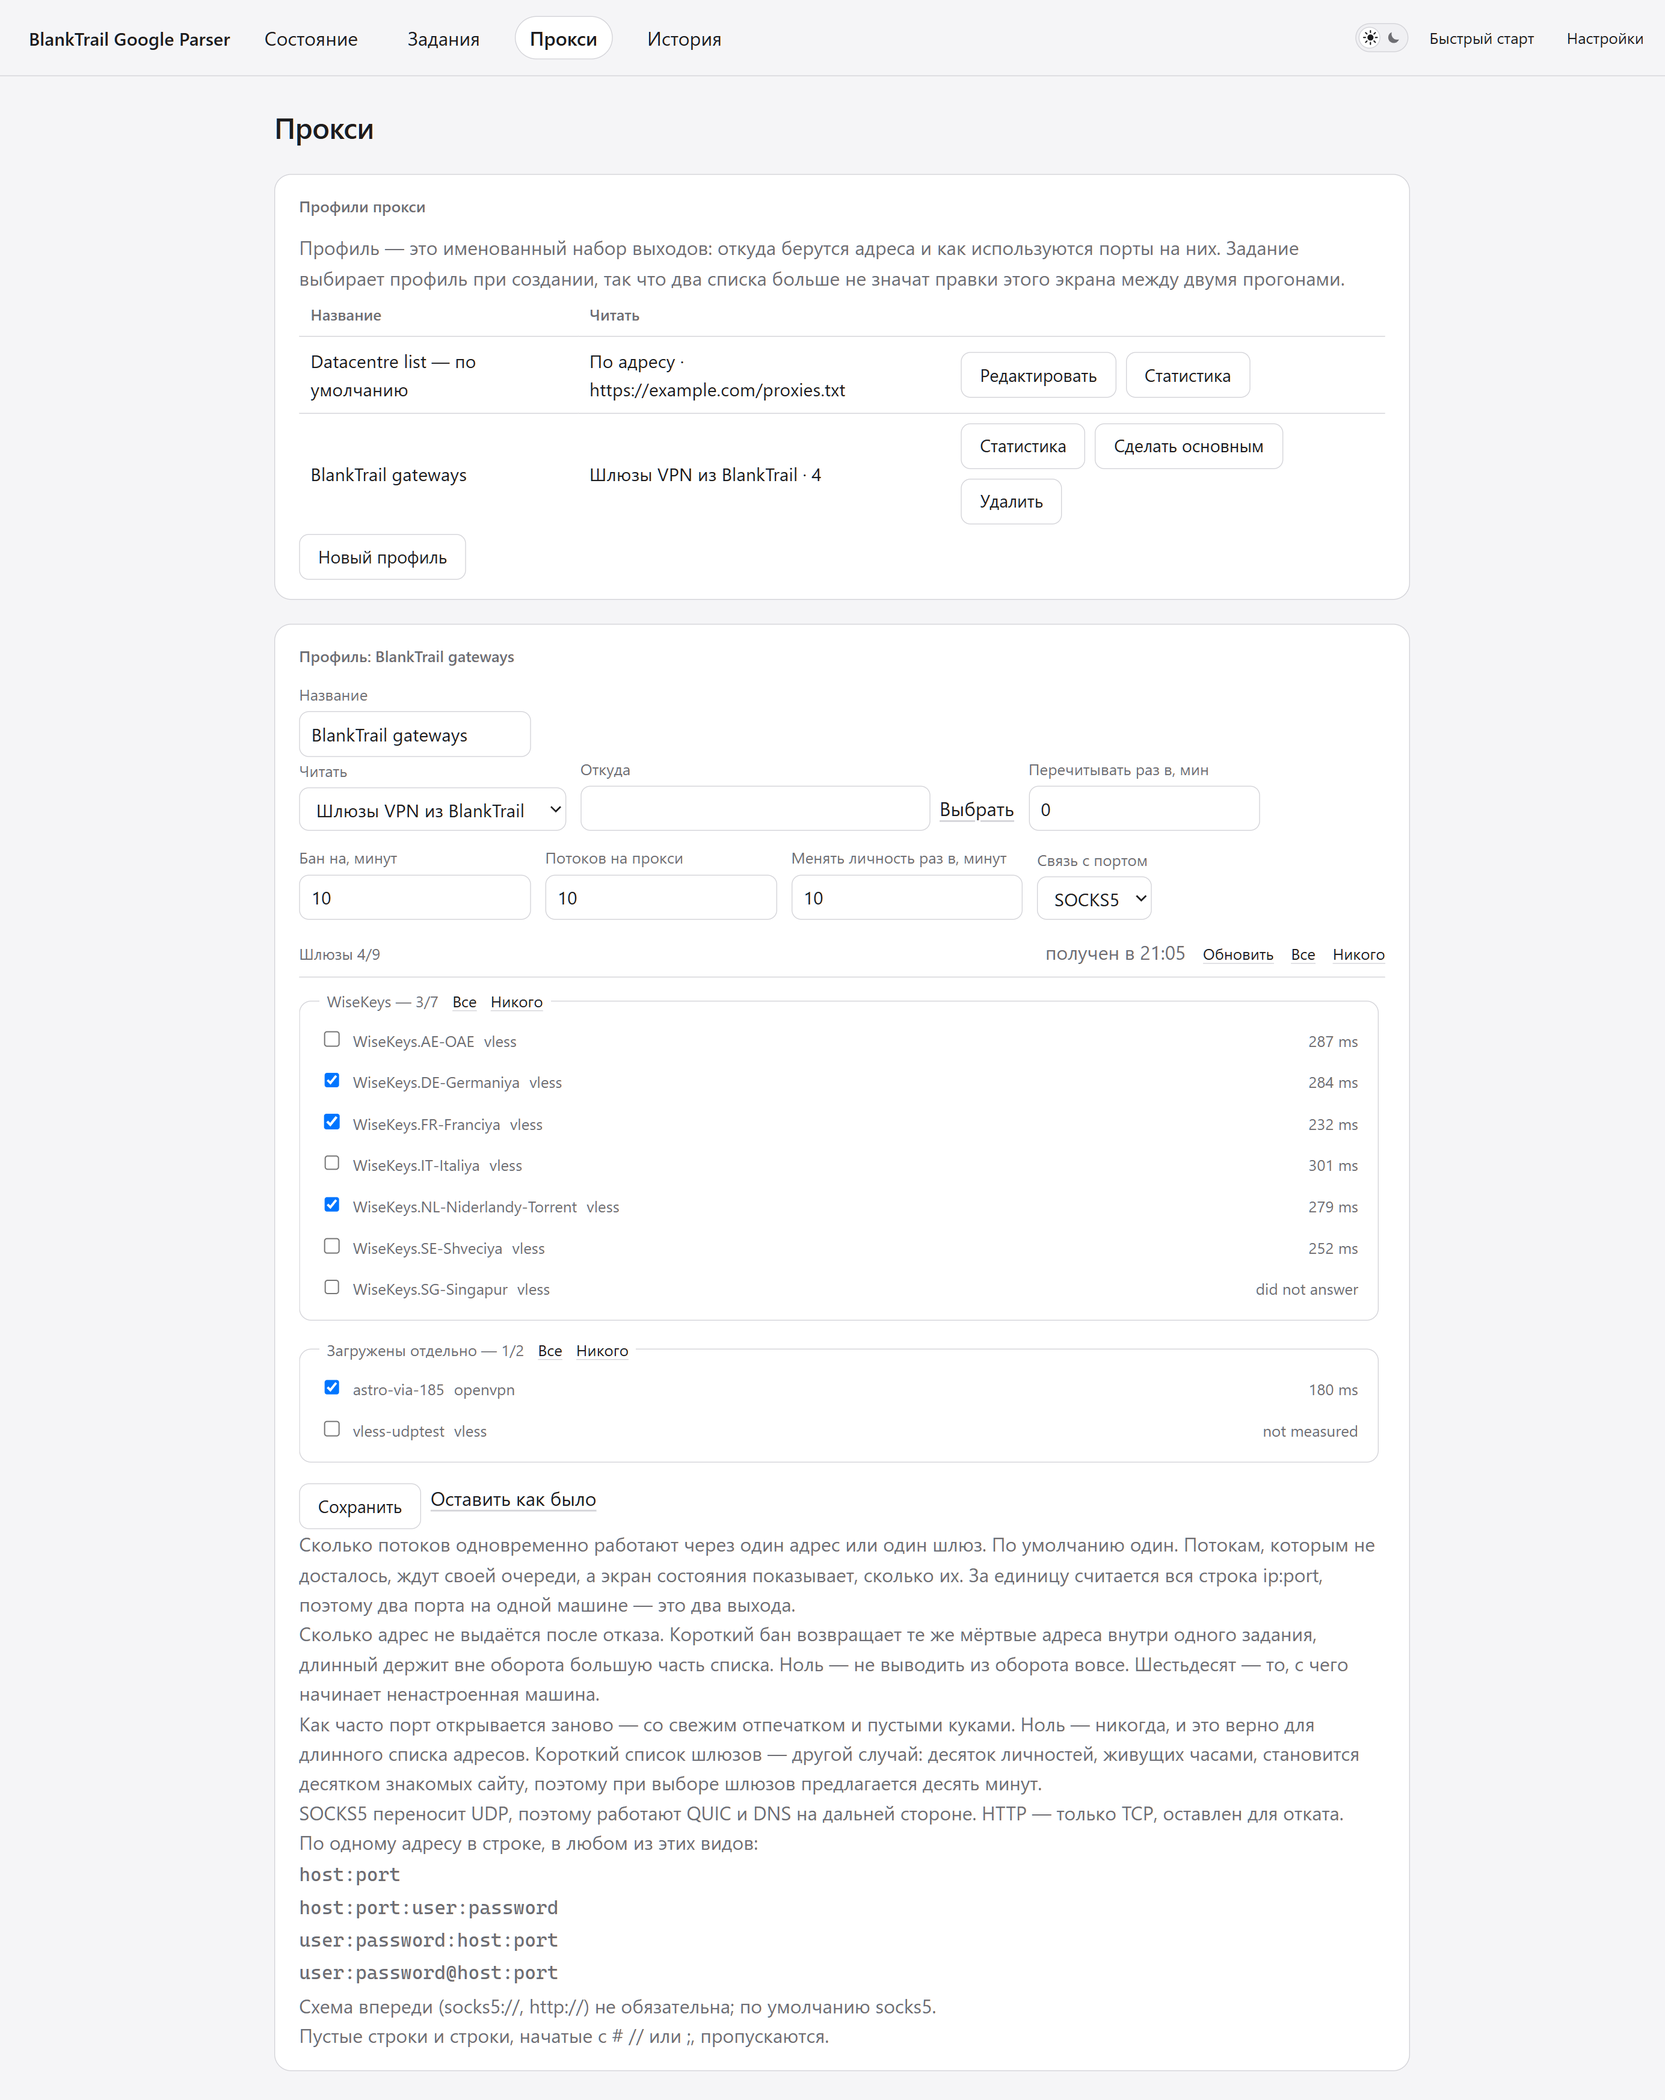
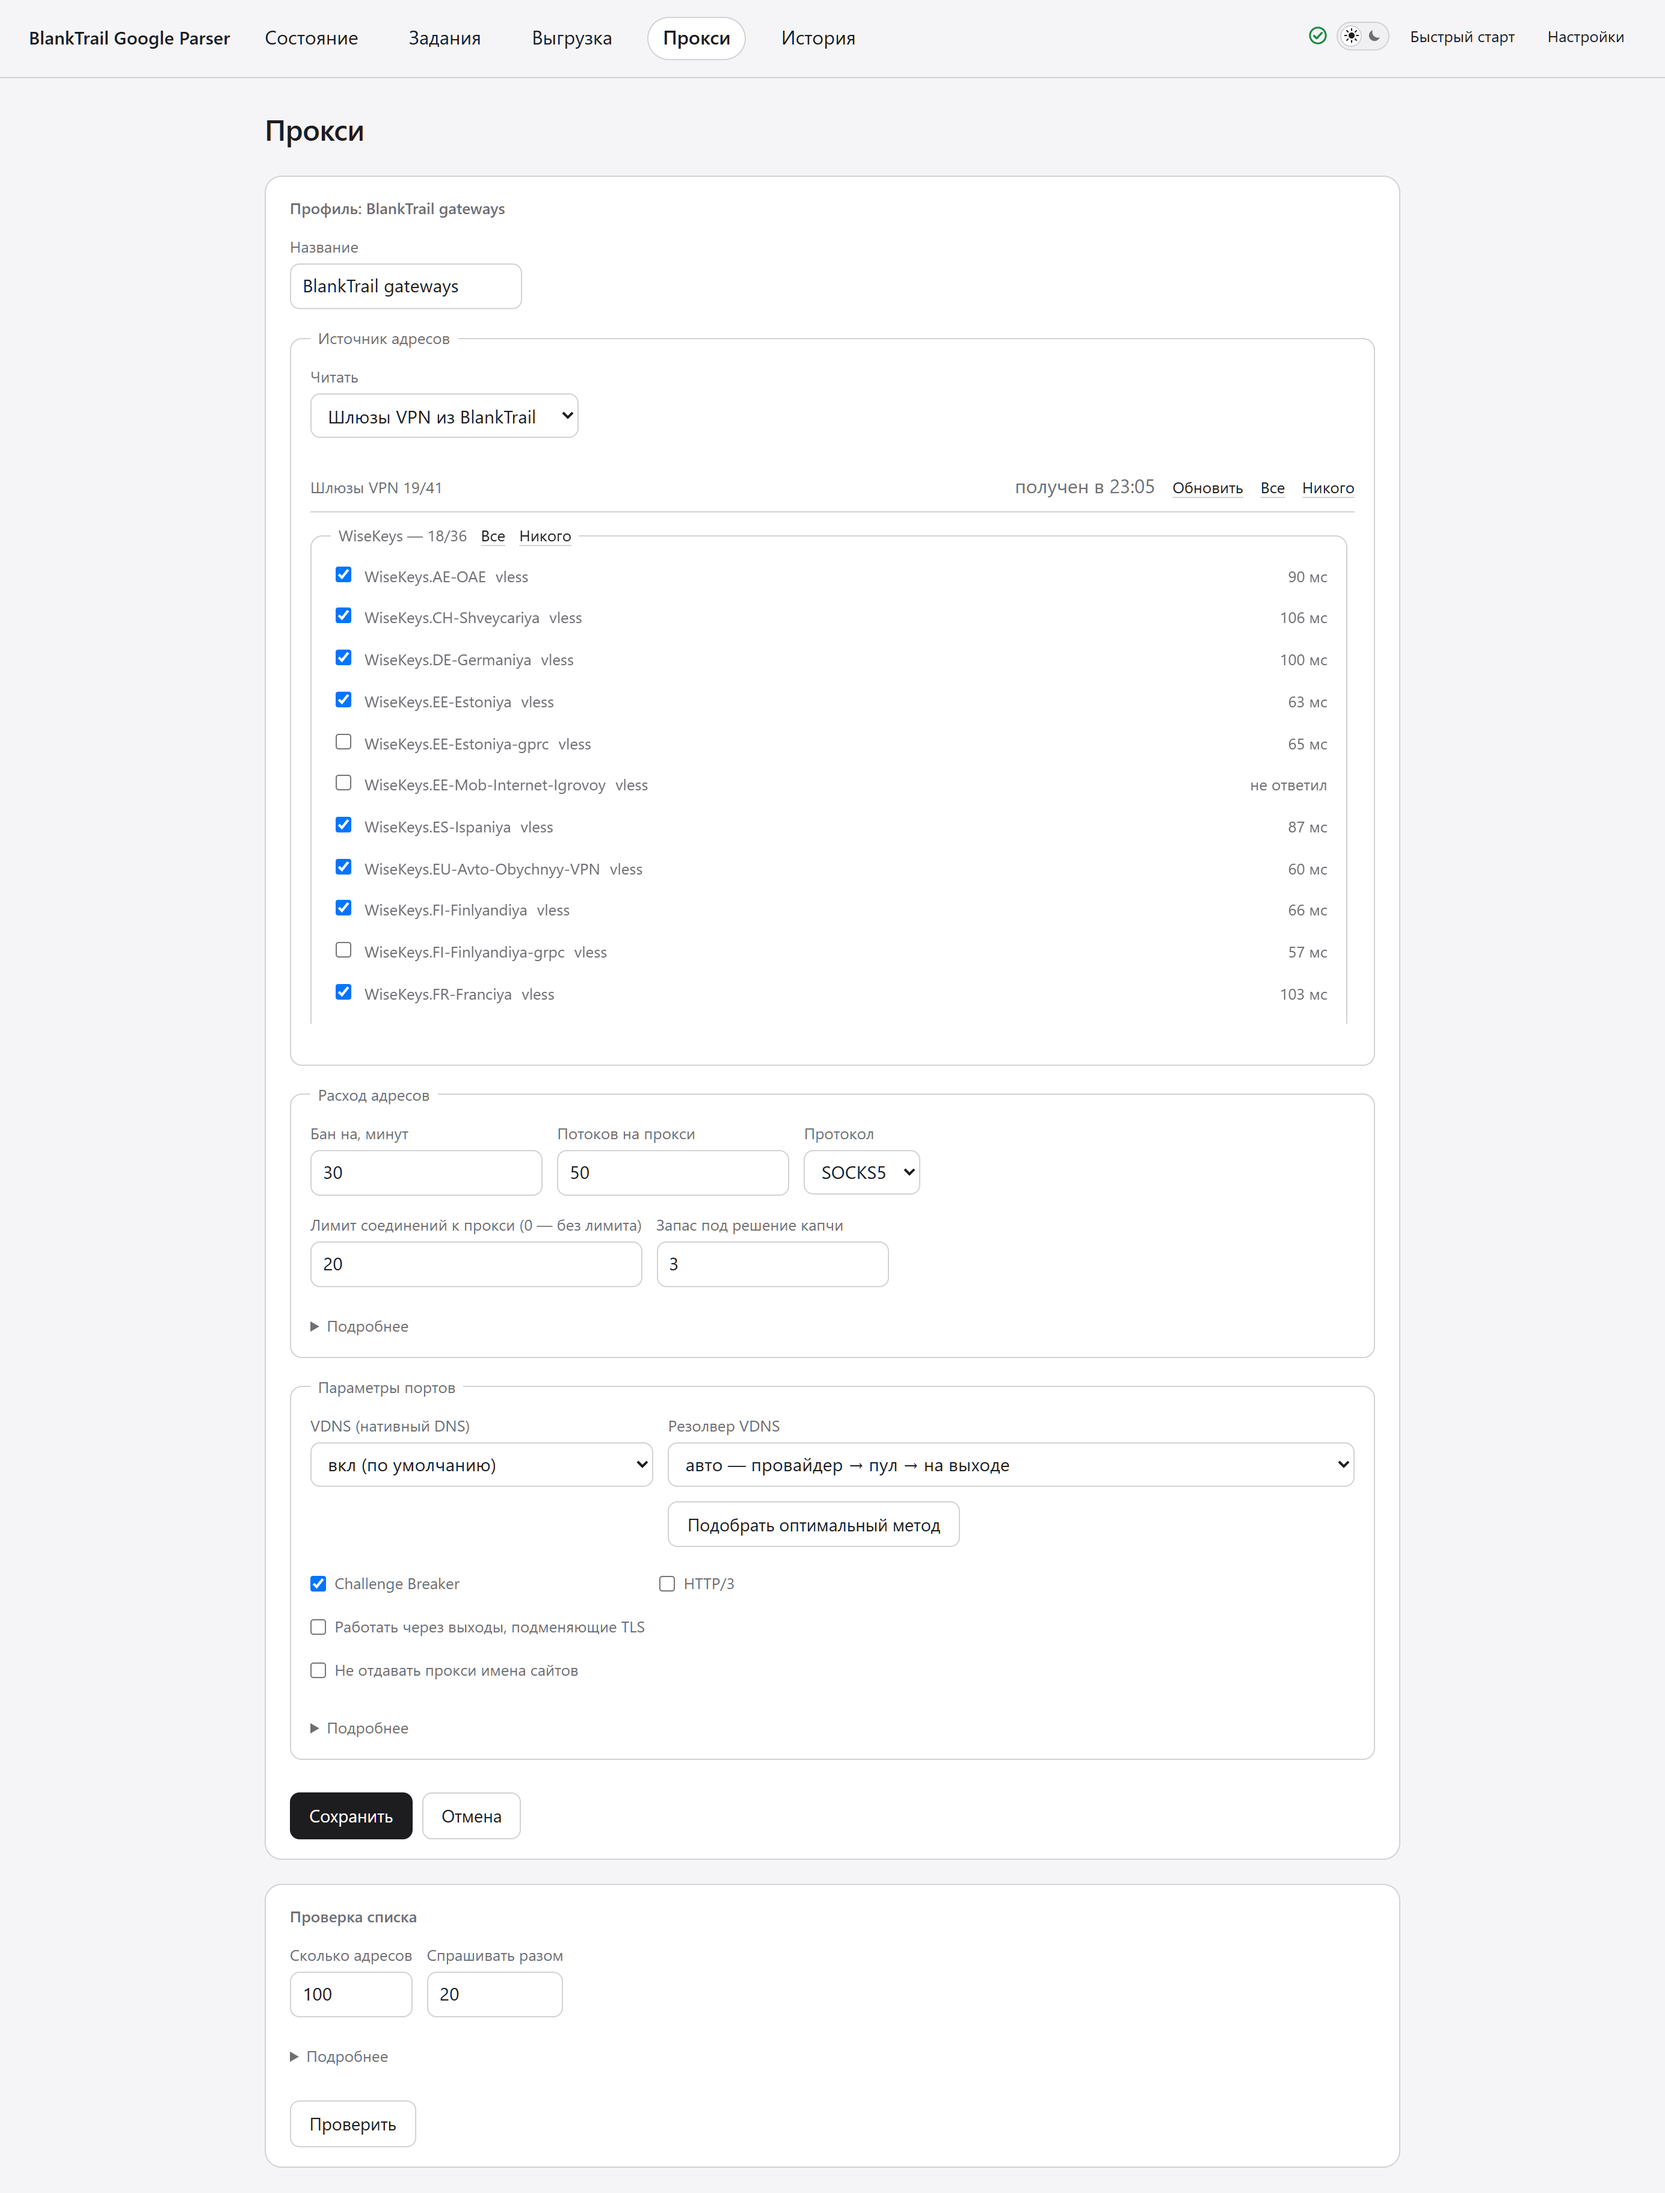
docs: retake the proxy screenshots and add the export tab

diff --git a/README.md b/README.md
@@ -180,7 +180,7 @@ Open **Export → select a job → configure the file**. Preview result parts, c
 
 Deduplicate search results by URL or host, and suggestions by text. **Only the site** keeps the results of one site and its subdomains and leaves out every other site the search answered with; a pasted address works as well as a name. Suggestion filters (*By meaning* when the job is scored, *By words* otherwise, [see above](#collect-and-clean-keyword-suggestions)) are applied at export, so the saved results remain available without filtering too. Addresses with non-Latin letters read as letters in the results table and the History; files keep them exactly as they came.
 
-[Export and API →](docs/GUIDE.md#exports)
+[Export and API →](docs/GUIDE.md#exports) · [Export screen in PNG](assets/screenshots/export-en.png)
 
 <a id="performance"></a>
 
